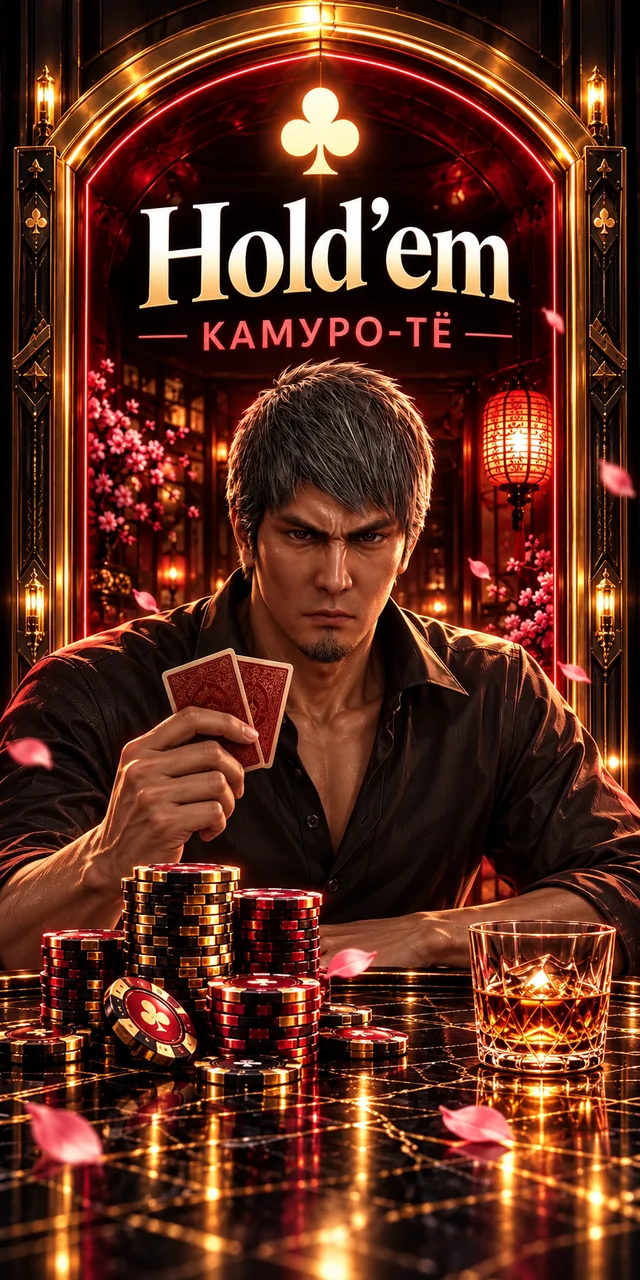
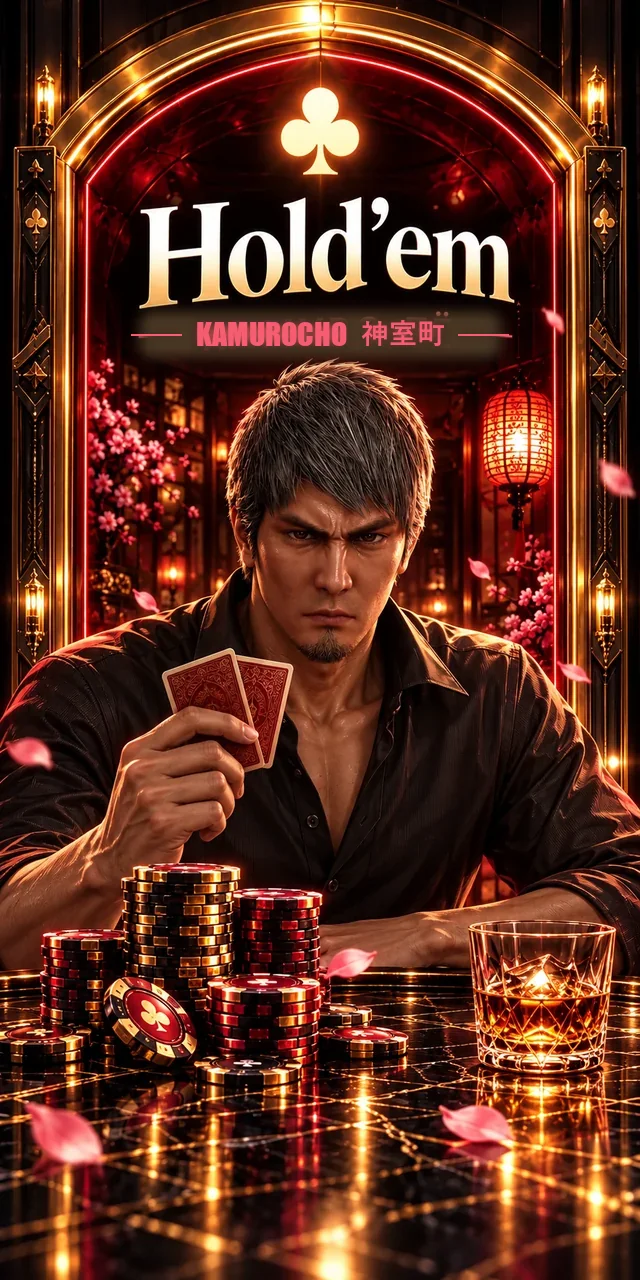
feat(miniapp): rename to Tachanka's Luck and Kamurocho 神室町
Claude-Session: https://claude.ai/code/session_01RKNXNesPxZVxkKC6TQpiik

Changed region(s): [[0.2188, 0.2188, 0.7812, 0.2812]]

diff --git a/apps/miniapp/src/lib/rooms/PokerRoom.svelte b/apps/miniapp/src/lib/rooms/PokerRoom.svelte
@@ -91,7 +91,7 @@
         if (!disposed) stream(next.roomId);
       } else {
         mode = 'bot';
-        accept({roomId:`demo-${crypto.randomUUID()}`,gameType:'holdem',title:'Камуро-тё',rulesetVersion:'holdem-demo-1',stateVersion:1,publicState:{phase:'active',buy_in:buyIn,seat:0,hero_code:'Kazuma_Kiryu',game_phase:'pre_flop',pot:buyIn*0.15,stacks:[buyIn*0.95,buyIn*0.9],street_contributions:[buyIn*0.05,buyIn*0.1],current_seat:0,current_bet:buyIn*0.1,minimum_raise:buyIn*0.2,legal_actions:['fold','call'],community_cards:[],hole_cards:[{rank:'A',suit:'S'},{rank:'K',suit:'S'}],showdown:false}});
+        accept({roomId:`demo-${crypto.randomUUID()}`,gameType:'holdem',title:'Kamurocho 神室町',rulesetVersion:'holdem-demo-1',stateVersion:1,publicState:{phase:'active',buy_in:buyIn,seat:0,hero_code:'Kazuma_Kiryu',game_phase:'pre_flop',pot:buyIn*0.15,stacks:[buyIn*0.95,buyIn*0.9],street_contributions:[buyIn*0.05,buyIn*0.1],current_seat:0,current_bet:buyIn*0.1,minimum_raise:buyIn*0.2,legal_actions:['fold','call'],community_cards:[],hole_cards:[{rank:'A',suit:'S'},{rank:'K',suit:'S'}],showdown:false}});
       }
     } catch(e) {
       if (typeof e === 'object' && e !== null && 'status' in e && typeof e.status === 'number' && e.status >= 400 && e.status < 500) {pendingCreate=null;sessionStorage.removeItem('holdem-create');error='Сервер отклонил вход. Проверьте баланс и выберите стол.';}
@@ -142,7 +142,7 @@
 </script>
 <svelte:head><link rel="stylesheet" href={`${base}/holdem/font.css`} /></svelte:head>
 <div class="poker-room" aria-busy={busy}>
-  <header><h2 class="neon">Камуро-тё</h2><p>{live ? 'Одна раздача. Два места. Итог с сервера.' : 'DEMO · записанная демонстрационная раздача. Баланс не меняется.'}</p></header>
+  <header><h2 class="neon">Kamurocho <span class="kanji">神室町</span></h2><p>{live ? 'Одна раздача. Два места. Итог с сервера.' : 'DEMO · записанная демонстрационная раздача. Баланс не меняется.'}</p></header>
   {#if error}<div class="error" role="alert">{error} {#if pendingCreate}<button on:click={start} disabled={busy}>Повторить</button>{/if}{#if pendingAction}<button on:click={() => action('retry')} disabled={busy}>Повторить ход</button>{/if}{#if snapshot}<button on:click={refresh} disabled={busy}>Синхронизировать</button>{/if}</div>{/if}
   {#if !view}
     <section class="lobby" aria-label="Лобби Hold’em">
@@ -164,7 +164,7 @@
 <style>
   .poker-room{position:relative;display:grid;gap:16px;background:#171313;color:#f3ede2;padding:16px;border:1px solid #c9a24a55;padding-bottom:max(16px,env(safe-area-inset-bottom))}h2{font:32px Georgia,serif;margin:8px 0}p{font-size:12px;line-height:1.5;margin:4px 0;color:inherit}.lobby{display:grid;gap:16px}fieldset{display:grid;gap:8px;border:1px solid #c9a24a55;padding:12px}legend{color:#e9cd84;font-size:12px}label{padding:8px;font-size:14px}label small{display:block;margin:4px 0 0 22px;color:#ccc3b4;font-size:11px}input{accent-color:#b8141f}button{min-height:44px;border:1px solid #c9a24a;background:#321014;color:#f3ede2;padding:8px 16px;font:inherit;cursor:pointer}button:disabled{opacity:.5;cursor:default}button:focus-visible,a:focus-visible,summary:focus-visible{outline:3px solid #fff1b8;outline-offset:3px}.primary{background:#7a0b13}.error{padding:12px;border:1px solid #ea8e8e;font-size:13px}.error button{margin-top:8px}.search{text-align:center;padding:24px 8px}.sources{font-size:11px;color:#d4cbbd}.sources summary{min-height:44px;display:flex;align-items:center;cursor:pointer}.sources a{color:#e9cd84}.intro{position:absolute;z-index:4;inset:0;display:grid;align-content:center;background:#0c0a0af5;overflow:hidden;padding:16px}.intro>img{width:100%;aspect-ratio:4/5;object-fit:cover;filter:grayscale(1);mask-image:linear-gradient(transparent,#000 15%,#000 80%,transparent)}.intro>div{margin-top:-80px;z-index:1;text-align:center}.intro h3,.intro p{font-family:Permanent Marker,cursive;color:#b8141f;-webkit-text-stroke:1px #fff;paint-order:stroke fill;text-shadow:2px 2px #000}.intro h3{font-size:clamp(24px,7vw,42px);margin:8px 0}.intro p{font-size:16px;margin:8px 0}.intro button{margin-top:16px}@media(min-width:768px){.lobby fieldset:last-of-type{grid-template-columns:repeat(3,1fr)}.intro>img{max-height:520px;object-fit:contain}.poker-room{max-width:720px;margin:auto;width:100%;box-sizing:border-box}}@media(prefers-reduced-motion:reduce){.intro{display:none}}
 
-  /* Камуро-тё в стиле хаба: стекло над воротами, неоновая вывеска, карточки-таблички вместо переключателей. */
+  /* Kamurocho в стиле хаба: стекло над воротами, неоновая вывеска, карточки-таблички вместо переключателей. */
   .poker-room{background:rgb(23 19 19 / 86%);border-radius:18px;border-color:rgb(201 162 74 / 45%);box-shadow:0 18px 50px rgb(0 0 0 / 55%),0 0 40px rgb(255 46 96 / 8%)}
   .neon{color:#ffe9ee;text-shadow:0 0 6px #ff2e60,0 0 18px #ff2e6099,0 0 34px #ff2e6055;animation:sign 7s linear infinite}
   .lobby fieldset{border:0;padding:0;margin:0;grid-template-columns:repeat(auto-fit,minmax(0,1fr));gap:8px}
@@ -181,6 +181,7 @@
   .primary{min-height:56px;border:1px solid #ff8aa5;border-radius:14px;background:linear-gradient(180deg,#a3121f,#6b0911);box-shadow:0 0 26px rgb(255 46 96 / 35%);transition:transform .18s ease,opacity .18s ease}
   .primary:hover:not(:disabled){transform:translateY(-2px);box-shadow:0 0 36px rgb(255 46 96 / 55%)}
   .primary:active:not(:disabled){transform:translateY(1px) scale(.98)}
+  .neon .kanji{font-size:.62em;letter-spacing:.08em;vertical-align:.18em}
   @keyframes sign{0%,100%{opacity:1}61%{opacity:1}62%{opacity:.55}63%{opacity:1}66%{opacity:.7}67%{opacity:1}}
   @media(prefers-reduced-motion:reduce){.neon{animation:none}.lobby label,.primary{transition:none}}
 

diff --git a/apps/miniapp/src/lib/components/RoomShell.svelte b/apps/miniapp/src/lib/components/RoomShell.svelte
@@ -30,9 +30,9 @@
 
   // Сцена каждой комнаты: фон из утверждённых концептов, концепция комнат не меняется.
   const scenes: Record<RoomTheme, { kicker: string; title: string; backdrop: string | null }> = {
-    slot: { kicker: 'RAINBOW SIX · SIEGE', title: 'Slot Siege', backdrop: 'slot/scene/room.webp' },
+    slot: { kicker: 'RAINBOW SIX · SIEGE', title: 'Tachanka’s Luck', backdrop: 'slot/scene/room.webp' },
     blackjack: { kicker: 'GFL · SECTOR 09', title: 'Blackjack', backdrop: 'blackjack/room.webp' },
-    holdem: { kicker: '神室町 · HEADS-UP', title: 'Hold’em', backdrop: 'holdem/scene/room.webp' }
+    holdem: { kicker: 'KAMUROCHO 神室町 · HEADS-UP', title: 'Hold’em', backdrop: 'holdem/scene/room.webp' }
   };
   $: scene = scenes[theme];
 </script>
@@ -81,12 +81,12 @@
   .theme-blackjack .fx-a { background: radial-gradient(46% 20% at 30% 50%, rgb(255 40 60 / 34%), transparent 70%); animation: police-red 1.8s steps(1) infinite; }
   .theme-blackjack .fx-b { background: radial-gradient(46% 20% at 72% 48%, rgb(50 110 255 / 34%), transparent 70%); animation: police-blue 1.8s steps(1) infinite; }
 
-  /* Slot Siege: тактический холод, дым и медленные лучи прожекторов. */
+  /* Tachanka’s Luck (Siege): тактический холод, дым и медленные лучи прожекторов. */
   .theme-slot .scene { background: radial-gradient(120% 70% at 50% 0%, #1d2a33 0%, #0b1116 55%, #06090c 100%); }
   .theme-slot .fx-a { inset: -30% -60%; background: conic-gradient(from 180deg at 50% 0%, transparent 0deg, rgb(205 228 240 / 10%) 8deg, transparent 18deg, transparent 340deg, rgb(205 228 240 / 8%) 350deg, transparent 360deg); animation: searchlight 14s ease-in-out infinite alternate; transform-origin: 50% 0%; }
   .theme-slot .fx-b { background: radial-gradient(60% 30% at 20% 85%, rgb(170 190 200 / 12%), transparent 70%), radial-gradient(55% 28% at 80% 75%, rgb(170 190 200 / 10%), transparent 70%); animation: smoke 22s ease-in-out infinite alternate; }
 
-  /* Hold'em: ворота Камуро-тё, мерцающий неон. */
+  /* Hold'em: ворота Kamurocho (神室町), мерцающий неон. */
   .theme-holdem .backdrop { object-position: 50% 40%; opacity: .62; filter: blur(2px) saturate(1.1); transform: scale(1.06); }
   .theme-holdem .fx-a { background: radial-gradient(70% 34% at 50% 18%, rgb(255 46 96 / 22%), transparent 70%); animation: neon 6s linear infinite; }
   .theme-holdem .fx-b { background: radial-gradient(60% 30% at 50% 95%, rgb(201 162 74 / 16%), transparent 70%); }

diff --git a/apps/miniapp/src/lib/components/hub/HubLobby.svelte b/apps/miniapp/src/lib/components/hub/HubLobby.svelte
@@ -20,9 +20,9 @@
   let visible = true;
 
   const activities: Array<{game:GameType;name:string;subtitle:string;art:string}> = [
-    {game:'slot',name:'Slot Siege',subtitle:'Быстрый раунд',art:'slot-portal.webp'},
+    {game:'slot',name:'Tachanka’s Luck',subtitle:'Быстрый раунд',art:'slot-portal.webp'},
     {game:'blackjack',name:'Blackjack',subtitle:'Girls’ Frontline',art:'blackjack-portal.webp'},
-    {game:'holdem',name:'Hold’em',subtitle:'Камуро-тё · Два игрока',art:'holdem-portal.webp'}
+    {game:'holdem',name:'Hold’em',subtitle:'Kamurocho 神室町 · Два игрока',art:'holdem-portal.webp'}
   ];
   const navigation = [
     {id:'play' as const,label:'Играть',icon:'cards'},

diff --git a/apps/miniapp/tests/e2e/reconnect.spec.ts b/apps/miniapp/tests/e2e/reconnect.spec.ts
@@ -10,6 +10,6 @@ test('resync returns to a stable room snapshot', async ({ page }) => {
   await expect(page.getByTestId('resync-button')).toContainText('DEMO');
   await expect(page.getByTestId('room-shell')).toHaveAttribute('data-motion', 'idle');
   await expect(
-    page.getByTestId('room-shell').getByRole('heading', { name: 'Камуро-тё', level: 2 })
+    page.getByTestId('room-shell').getByRole('heading', { name: 'Kamurocho 神室町', level: 2 })
   ).toBeVisible();
 });

diff --git a/apps/miniapp/src/routes/+page.svelte b/apps/miniapp/src/routes/+page.svelte
@@ -62,7 +62,7 @@
     },
     {
       gameType: 'holdem' as const,
-      eyebrow: 'HEADS-UP · КАМУРО-ТЁ',
+      eyebrow: 'HEADS-UP · KAMUROCHO 神室町',
       title: 'Hold’em',
       description: 'Один pot, два места и понятная линия действия.',
       accent: '#ce86f2',

diff --git a/ChangeLog.md b/ChangeLog.md
@@ -2,6 +2,8 @@
 
 ## Unreleased
 
+- Renamed the Siege slot to «Tachanka’s Luck» and Kamurocho to «Kamurocho 神室町» across the hub, room headers and portals.
+
 - Replace temporary Slot and Hold'em hub portal collages with integrated Tachanka and Infinite Wealth Kiryu illustrations.
 
 - Add portrait room scenes, portal zoom transitions, compact phone layouts, and confirmed-result animations for Blackjack, Slot Siege, and Hold'em; respect hub motion pause and reduced motion.
